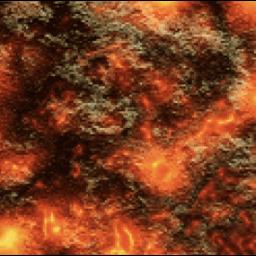
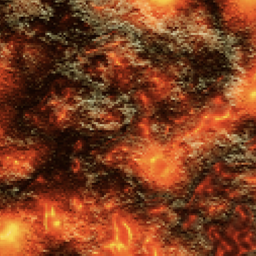
cleanup & update readme

diff --git a/src/SceneRoaming.h b/src/SceneRoaming.h
@@ -56,8 +56,8 @@ private:
 };
 
 //synth shader
-const std::string synthTexturePath = "../data/noise/granite_256.png";
-const std::string gaussianTexturePath = "../output/granite_256_g.png";
+const std::string synthTexturePath = "../data/noise/fire_256.png";
+const std::string gaussianTexturePath = "../output/fire_256_g.png";
 const std::string synthVertCode = "../shader/synth.vs";
 const std::string synthFragCode = "../shader/synth.fs";
 const std::string debugVertCode = "../shader/debug.vs";

diff --git a/gaussianize.py b/gaussianize.py
@@ -135,7 +135,7 @@ def gaussianize_image(input_image_path, mean=0.5, variance=1/36):
 if __name__ == '__main__':
     # Gaussianize an texture image here
     # input image path
-    input_image_path = 'data/noise/cement_256.png'
+    input_image_path = 'data/noise/fire_256.png'
     # gaussianize the image
     result = gaussianize_image(input_image_path)
     

diff --git a/image_scaler.py b/image_scaler.py
@@ -27,7 +27,7 @@ def scale(image, width, height):
 if __name__ == '__main__':
 
     input_folder = './data/noise'
-    name = 'cement.png'
+    name = 'fire.png'
     file_name = os.path.join(input_folder, name)
 
     img = Image.open(file_name).convert('RGB')

diff --git a/README.md b/README.md
@@ -33,7 +33,13 @@
 #### Bugs / Artifacts of Implementation 
 
 * Most of the values after Gaussian->Uniform transform are within the range [0.467, 0.533], if we use a lut on the range of [0,1], we might get most of our pixels mapped to the same color. And thus making the results having very low contrast.
-* The blending might gets horizontal or vertical artifacts for some reason.
+
+<img src="https://s2.loli.net/2024/11/01/tryGeNOMw8IPSFp.png" alt="Screenshot 2024-10-29 at 21.54.20" style="zoom:33%;" />
+
+* The blending might gets horizontal or vertical artifacts for some reason (i.e. not seamless).
+
+<img src="https://s2.loli.net/2024/11/01/ZVgaOsDTA9rflbW.png" alt="image-20241031205318594" style="zoom:33%;" />
+
 * The Optimal Transport method in my implementation makes the final histogram look squiggly (see results below).
 
 
